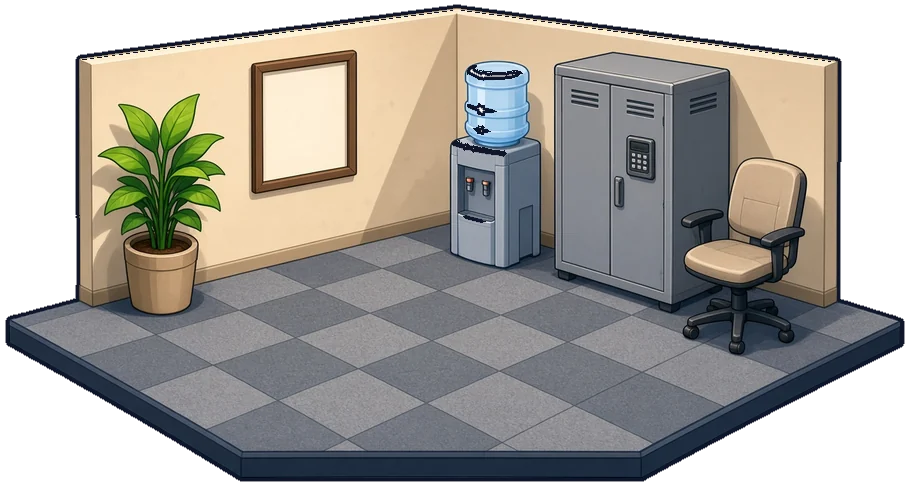
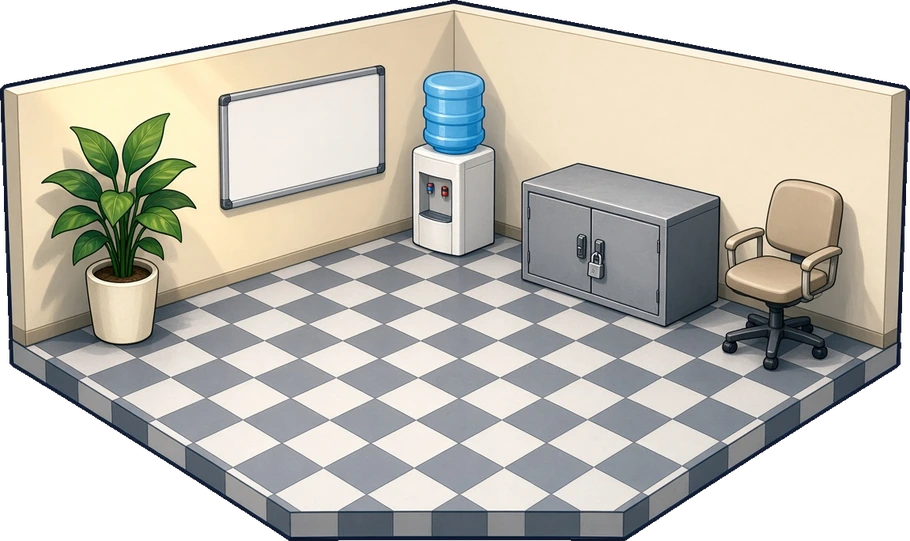
Everybody sits on something, the locker is now pickable, and the scale is fixed
Scale: a kneeling otter was taller than a standing wolf. Smudge now has a
height per pose (sitting, kneeling, standing) and the heroes are bigger, so the
crew read as people beside him rather than toys.

Sitting on air: the fishing pose is a side view that needs an edge under it.
The dock has one, so he moved onto its front edge clear of the post. The beach
and the ice hole do not, so a wooden crate (Grok job 185) is drawn under him
there. Any future place without an edge just goes in CRATE in js/stage.js.

The Supply Closet had him kneeling at a chest-height locker, which made no
sense. The room was redrawn (Grok job 186) with a low padlocked supply cabinet,
so the kneeling pose now reaches the lock and Brenda's joke survives.

Claude-Session: https://claude.ai/code/session_01MKsZvYnMVUP17zjeeAuUE4

diff --git a/js/stage.js b/js/stage.js
@@ -6,19 +6,23 @@
   // and a body's width apart. The third letter is the way that spot faces. w = picture width / height.
   // k (optional) scales everybody in a scene that is drawn closer up.
   const STAND = {
-    dock: { w: 1.99, s: [.47, .665], c: [[.33, .53, 'r'], [.6, .51, 'l'], [.74, .575, 'l']] },
-    bondi: { w: 1.99, s: [.43, .655], c: [[.23, .71, 'r'], [.33, .655, 'r'], [.61, .5, 'l']] },
-    fjord: { w: 2.12, s: [.6, .6], c: [[.15, .57, 'r'], [.43, .57, 'r'], [.88, .51, 'l']] },
+    dock: { w: 1.99, s: [.495, .64], c: [[.3, .52, 'r'], [.43, .485, 'r'], [.72, .55, 'l']] },
+    bondi: { w: 1.99, s: [.44, .615], c: [[.21, .7, 'r'], [.31, .645, 'r'], [.62, .5, 'l']] },
+    fjord: { w: 2.12, s: [.52, .545], c: [[.14, .565, 'r'], [.4, .565, 'r'], [.88, .51, 'l']] },
     speakeasy: { w: 2.01, s: [.62, .62], c: [[.22, .78, 'r'], [.36, .7, 'r'], [.8, .72, 'l']] },
     vault: { w: 1.91, s: [.58, .78], c: [[.2, .78, 'r'], [.31, .72, 'r'], [.42, .8, 'r']] },
-    closet: { w: 1.87, s: [.55, .75], c: [[.2, .75, 'r'], [.31, .69, 'r'], [.41, .8, 'r']] },
+    closet: { w: 1.68, s: [.58, .66], c: [[.16, .78, 'r'], [.29, .71, 'r'], [.42, .82, 'r']] },
     outback: { w: 2.05, s: [.46, .71], c: [[.1, .74, 'r'], [.21, .67, 'r'], [.32, .78, 'r']] },
     blackforest: { w: 1.95, s: [.5, .8], c: [[.22, .77, 'r'], [.35, .65, 'r'], [.9, .7, 'l']] } };
   // heroes whose picture looks to one side; everyone else looks out at you and is never mirrored
   const LOOKS = { albrecht: 'l', astrid: 'l', marco: 'r', emu: 'r' };
   // where Smudge's rod tip is in the fishing picture, so the line starts from the rod and not from thin air
   const ROD = { fish: [452, 62] };
-  const HERO = 0.357, SMUDGE = 0.41;      // how tall a hero and Smudge stand, as a share of the scene picture's height
+  // How tall everybody is, as a share of the scene picture's height. Smudge is sitting in some poses and standing in
+  // others, so each pose has its own number: an otter kneeling at a lock has to read as shorter than a standing wolf.
+  const HERO = 0.40, SMUDGE = { fish: 0.335, pick: 0.325, dig: 0.385, stamp: 0.355 };
+  // Scenes where there is no edge to sit on, so a crate is put under him
+  const CRATE = { bondi: 1, fjord: 1 };
 
   const Stage = {
     STAND, LOOKS,
@@ -26,9 +30,10 @@
     // cx = where its middle sits (0.5 = centred).
     rect(place, W, H, cx) { const sp = STAND[place] || STAND.dock, h = H * 1.12, w = h * sp.w; return { x: W * (cx == null ? .5 : cx) - w / 2, y: -H * .06, w, h }; },
     // Everybody's feet in host pixels, and their heights. r = the picture's box from rect().
-    layout(place, r) {
+    layout(place, r, pose) {
       const sp = STAND[place] || STAND.dock, k = sp.k || 1, at = q => [r.x + q[0] * r.w, r.y + q[1] * r.h];
-      return { smudge: { at: at(sp.s), h: SMUDGE * r.h * k }, crew: sp.c.map(q => ({ at: at(q), h: HERO * r.h * k, face: q[2] })) };
+      pose = pose || 'stamp';
+      return { pose, crate: !!CRATE[place], smudge: { at: at(sp.s), h: (SMUDGE[pose] || 0.355) * r.h * k }, crew: sp.c.map(q => ({ at: at(q), h: HERO * r.h * k, face: q[2] })) };
     },
     // the rod tip in host pixels for a pose placed at `at` and `h` tall
     rodTip(pose, at, h, rig) { const t = ROD[pose], e = rig[pose]; if (!t || !e) return null; const k = h / e.size[1];

diff --git a/js/game.js b/js/game.js
@@ -283,14 +283,15 @@
       const r = card.querySelector('.row'); r.append(btn('small', 'Move him', placeSheet), btn('small ghost', 'What drops here', () => lootSheet(p, modal.close)), btn('small ghost', 'Bring him home', () => { S.jobs = []; save(true); render(); }));
       box.appendChild(card);
       // everybody's spot and size come from the stage (js/stage.js), the same table the dashboard uses
-      const host = card.querySelector('.who'), H = host.clientHeight, lay = OS.Stage.layout(p.id, OS.Stage.rect(p.id, host.clientWidth, H));
+      const host = card.querySelector('.who'), H = host.clientHeight, pose = POSE[p.skill] || 'stamp', lay = OS.Stage.layout(p.id, OS.Stage.rect(p.id, host.clientWidth, H), pose);
       const rect = OS.Stage.rect(p.id, host.clientWidth, H); FX = new OS.SceneFX(host, p.id, rect);
       // back to front, so whoever stands lower in the picture is drawn in front
       const cast = crew().map((id, k) => ({ id, q: lay.crew[k] })).concat([{ q: lay.smudge }]).sort((a, c) => a.q.at[1] - c.q.at[1]);
       cast.forEach(m => { const [x, y] = m.q.at;
         if (m.id) { const pp = OS.heroPuppet(host, m.id, m.q.h); if (pp) { pp.flip = OS.Stage.flip(m.id, m.q.face); pp.place(x, y); jobPups.push(pp); pp.id = m.id; pp.tall = m.q.h; pp.wide = m.q.h * OS.rig['h_' + m.id].size[0] / OS.rig['h_' + m.id].size[1]; crewPups.push(pp); } }
-        else { const pose = POSE[p.skill] || 'stamp', se = OS.rig[pose], sm = new OS.Puppet(host, pose, m.q.h / se.size[1]); sm.place(x, y); sm.me = true; sm.tall = m.q.h; sm.wide = m.q.h; jobPups.push(sm); } });
+        else { const se = OS.rig[pose], sm = new OS.Puppet(host, pose, m.q.h / se.size[1]); sm.place(x, y); sm.me = true; sm.tall = m.q.h; sm.wide = m.q.h; jobPups.push(sm); } });
       if (p.skill === 'Fishing') FX.rod(OS.Stage.rodTip('fish', lay.smudge.at, lay.smudge.h, OS.rig));
+      if (lay.crate) FX.crate([lay.smudge.at[0] - lay.smudge.h * .08, lay.smudge.at[1] + lay.smudge.h * .03], lay.smudge.h * .55);
       jobPups.sort((a, c) => (c.me ? 1 : 0) - (a.me ? 1 : 0));
     }
     // ---- the crew

diff --git a/js/dashtest.js b/js/dashtest.js
@@ -1,7 +1,7 @@
 // Dashboard mockup: fake numbers, but the live bits are live — the rigs move, the bars fill,
 // the sparkline is drawn, and the haul timer runs. Nothing here touches a save.
 (function () {
-  const $ = id => document.getElementById(id), V = '?v=1126f';
+  const $ = id => document.getElementById(id), V = '?v=1126g';
 
   // ---- the desk: Smudge at work with a crew of three, on the scene he is working
   const scene = $('scene'), crew = $('crew');
@@ -12,7 +12,7 @@
     const w = crew.clientWidth, h = crew.clientHeight; if (!w || !rig) return;
     cast.forEach(m => m.p.destroy()); cast = [];
     // the scene picture sits whole on the right of the strip, and everybody stands where the stage says (js/stage.js)
-    const r = OS.Stage.rect(PLACE, w, h, w > 900 ? .68 : .5), lay = OS.Stage.layout(PLACE, r), bg = $('desk-bg');
+    const r = OS.Stage.rect(PLACE, w, h, w > 900 ? .68 : .5), lay = OS.Stage.layout(PLACE, r, POSE), bg = $('desk-bg');
     if (fx) fx.destroy(); fx = new OS.SceneFX(crew, PLACE, r);
     bg.style.cssText = `left:${r.x}px;top:${r.y}px;width:${r.w}px;height:${r.h}px`;
     const all = CREW.map((id, k) => ({ id, q: lay.crew[k] })).concat([{ q: lay.smudge }]).sort((a, b) => a.q.at[1] - b.q.at[1]);
@@ -22,6 +22,7 @@
       cast.push({ id: m.id, p, x: m.q.at[0], y: m.q.at[1], tall: m.q.h, wide: m.q.h * e.size[0] / e.size[1] });
     });
     fx.rod(OS.Stage.rodTip(POSE, lay.smudge.at, lay.smudge.h, rig));
+    if (lay.crate) fx.crate([lay.smudge.at[0] - lay.smudge.h * .08, lay.smudge.at[1] + lay.smudge.h * .03], lay.smudge.h * .55);
   }
   fetch('/data/rig.json' + V).then(r => r.json()).then(j => { rig = j; placeRigs(); });
   // the crew talk, one at a time, in a proper bubble

diff --git a/dashtest.html b/dashtest.html
@@ -4,8 +4,8 @@
 <meta charset="utf-8"><meta name="viewport" content="width=device-width,initial-scale=1">
 <title>Dashboard mockup · OverSummoned</title>
 <meta name="robots" content="noindex,nofollow">
-<link rel="stylesheet" href="/css/os.css?v=1126f">
-<link rel="stylesheet" href="/css/dash.css?v=1126f">
+<link rel="stylesheet" href="/css/os.css?v=1126g">
+<link rel="stylesheet" href="/css/dash.css?v=1126g">
 </head>
 <body class="dashbody">
 <header class="gbar"><div class="wrap">
@@ -15,7 +15,7 @@
     <span title="Ink"><img src="/assets/v2/loot/x_ink.webp" alt="Ink"><b id="r-ink">0</b></span>
     <span title="Gold"><img src="/assets/v2/loot/x_gold.webp" alt="Gold"><b id="r-gold">12,480</b></span>
     <button class="fbbtn" type="button">Ideas or feedback?</button>
-    <button class="avatar"><img src="/assets/v2/smudge/stamp.webp?v=1126f" alt=""></button>
+    <button class="avatar"><img src="/assets/v2/smudge/stamp.webp?v=1126g" alt=""></button>
   </div>
 </div></header>
 
@@ -122,9 +122,9 @@
 </main>
 
 <script src="/js/vendor/dragonBones.core.min.js"></script>
-<script src="/js/stage.js?v=1126f"></script>
-<script src="/js/scenefx.js?v=1126f"></script>
-<script src="/js/dbcanvas.js?v=1126f"></script>
-<script src="/js/dashtest.js?v=1126f"></script>
+<script src="/js/stage.js?v=1126g"></script>
+<script src="/js/scenefx.js?v=1126g"></script>
+<script src="/js/dbcanvas.js?v=1126g"></script>
+<script src="/js/dashtest.js?v=1126g"></script>
 </body>
 </html>

diff --git a/js/scenefx.js b/js/scenefx.js
@@ -33,6 +33,9 @@
     }
     // Where Smudge's rod tip is: told to us once he is placed, as [x, y] in host pixels.
     rod(xy) { this.tip = xy; }
+    // Scenes with no edge to sit on get a crate under him. top-centre at [x, y], h tall.
+    crate(xy, h) { this.crt = { x: xy[0], y: xy[1], h };
+      if (!SceneFX.img) { const i = SceneFX.img = new Image(); i.src = '/assets/v2/scenes/prop_crate.webp' + (OS.VER || ''); } }
     at(f) { const r = this.rect; return [r.x + f[0] * r.w, r.y + f[1] * r.h]; }
     // a haul: the bobber dips and a ring spreads
     splash() { if (!this.cfg.bob) return; this.rings.push({ a: 0 }); this.dip = 1; }
@@ -58,6 +61,9 @@
           g.beginPath(); g.ellipse(b[0], b[1], k.a * r.w * .07, k.a * r.h * .028, 0, 0, 7); g.stroke(); });
         g.restore();
       }
+      const ci = SceneFX.img;
+      if (this.crt && ci && ci.complete && ci.naturalWidth) { const k = this.crt.h / ci.naturalHeight, w2 = ci.naturalWidth * k;
+        g.drawImage(ci, this.crt.x - w2 / 2, this.crt.y, w2, this.crt.h); }
       if (c.lamp) c.lamp.forEach(([lx, ly, rad]) => { const [x, y] = this.at([lx, ly]), R = rad * r.h / 460 * 3.2, f = .55 + .45 * (0.5 + 0.5 * Math.sin(T * 2.3) * Math.sin(T * 1.1));
         const gr = g.createRadialGradient(x, y, 0, x, y, R); gr.addColorStop(0, `rgba(255,214,140,${.3 * f})`); gr.addColorStop(1, 'rgba(255,200,120,0)');
         g.fillStyle = gr; g.beginPath(); g.arc(x, y, R, 0, 7); g.fill(); });

diff --git a/maptest.html b/maptest.html
@@ -1,7 +1,7 @@
 <!doctype html><html lang="en"><head><meta charset="utf-8"><meta name="viewport" content="width=device-width,initial-scale=1">
 <title>Map test · OverSummoned</title><meta name="robots" content="noindex,nofollow"><link rel="stylesheet" href="/css/os.css?v=1126a"></head>
 <body><main class="wrap" style="padding:1.5rem 0"><h1 style="font-size:1.6rem">Map test (made-up visitors)</h1><div class="panel" style="margin-top:1rem"><div class="geomap" id="m"></div></div></main>
-<script src="/js/geomap.js?v=1126f"></script><script>
+<script src="/js/geomap.js?v=1126g"></script><script>
 const P=[['US','Melbourne',28.1,-80.6,14],['US','New York',40.7,-74,9],['US','Los Angeles',34.1,-118.2,6],['GB','London',51.5,-0.1,8],['DE','Berlin',52.5,13.4,4],['BR','Sao Paulo',-23.5,-46.6,3],['JP','Tokyo',35.7,139.7,5],['AU','Sydney',-33.9,151.2,4],['IN','Mumbai',19.1,72.9,2],['ZA','Cape Town',-33.9,18.4,1],['CA','Toronto',43.7,-79.4,3],['FR','Paris',48.9,2.4,2]];
 const places=P.map(p=>({country:p[0],city:p[1],lat:p[2],lon:p[3],visitors:p[4],views:p[4]*3}));
 GeoMap.mount(document.getElementById('m'),{places,recent:places.slice(0,8).map((p,i)=>({...p,path:['/','/heroes','/desktop-pet','/story'][i%4],at:new Date(Date.now()-i*420000).toISOString()}))});

diff --git a/play.html b/play.html
@@ -154,12 +154,12 @@
 <div class="toast" id="toast"></div>
 <script src="https://cdn.jsdelivr.net/npm/@supabase/supabase-js@2.45.0/dist/umd/supabase.min.js"></script>
 <script src="/js/cloud.js"></script>
-<script src="/js/os.js?v=1126f"></script>
-<script src="/js/stage.js?v=1126f"></script>
-<script src="/js/scenefx.js?v=1126f"></script>
+<script src="/js/os.js?v=1126g"></script>
+<script src="/js/stage.js?v=1126g"></script>
+<script src="/js/scenefx.js?v=1126g"></script>
 <script src="/js/vendor/dragonBones.core.min.js"></script>
-<script src="/js/dbcanvas.js?v=1126f"></script>
-<script src="/js/game.js?v=1126f"></script>
+<script src="/js/dbcanvas.js?v=1126g"></script>
+<script src="/js/game.js?v=1126g"></script>
 <script>if ('serviceWorker' in navigator) addEventListener('load', () => navigator.serviceWorker.register('/sw.js').catch(() => { }));</script>
 </body>
 </html>

diff --git a/admin.html b/admin.html
@@ -61,6 +61,6 @@
 </main>
 <div class="tip" id="ctip"></div><div class="toast" id="toast"></div>
 <script src="https://cdn.jsdelivr.net/npm/@supabase/supabase-js@2.45.0/dist/umd/supabase.min.js"></script>
-<script src="/js/cloud.js"></script><script src="/js/os.js"></script><script src="/js/geomap.js?v=1126f"></script><script src="/js/stage.js?v=1126f"></script><script src="/js/vendor/dragonBones.core.min.js"></script><script src="/js/dbcanvas.js?v=1126f"></script>
+<script src="/js/cloud.js"></script><script src="/js/os.js"></script><script src="/js/geomap.js?v=1126g"></script><script src="/js/stage.js?v=1126g"></script><script src="/js/vendor/dragonBones.core.min.js"></script><script src="/js/dbcanvas.js?v=1126g"></script>
 <script src="/js/admin.js"></script>
 </body></html>

diff --git a/sw.js b/sw.js
@@ -1,6 +1,6 @@
 // OverSummoned app shell. Pages and code come from the network first (so updates show at once) and
 // fall back to the last copy when offline; pictures with a version in their link are kept.
-const V = 'os-1126f';
+const V = 'os-1126g';
 self.addEventListener('install', e => { self.skipWaiting(); e.waitUntil(caches.open(V).then(c => c.addAll(['/offline', '/css/os.css', '/assets/fonts/LilitaOne.ttf', '/assets/fonts/Nunito.ttf']).catch(() => { }))); });
 self.addEventListener('activate', e => e.waitUntil((async () => { for (const k of await caches.keys()) if (k !== V) await caches.delete(k); await self.clients.claim(); })()));
 self.addEventListener('fetch', e => {

diff --git a/js/os.js b/js/os.js
@@ -3,7 +3,7 @@ window.OS = (function () {
   const A = '/assets/v2/';
   const OS = { R: null, rig: null, voice: null, items: {}, heroes: {} };
 
-  OS.VER = '?v=1126f';   // bump when art or data changes, so browsers drop their cached copies
+  OS.VER = '?v=1126g';   // bump when art or data changes, so browsers drop their cached copies
   OS.load = async function () {
     const [R, rig, voice] = await Promise.all(['rules', 'rig', 'voice'].map(n => fetch('/data/' + n + '.json' + OS.VER).then(r => r.json())));
     OS.R = R; OS.rig = rig; OS.voice = voice; OS.items = R.items;

diff --git a/PLAN.md b/PLAN.md
@@ -136,6 +136,7 @@ Status: [x] done, [~] partly done, [ ] not started.
 - [x] Crew chatter: each hero has five lines and two replies in their own voice (`rules/chatter.py` -> `data/chatter.json`, 182 lines, written by hand). One speaks every 11 to 21 seconds; sometimes one other answers. Never two at once. A crew member reacts when Smudge finds treasure
 - [ ] Grok voices: have Grok write a bigger set per hero ONCE, from the owner's office, and store it in the database for everyone. Never per player or per visit, so credits are spent once per hero. Needs database approval
 - [ ] RULE for every new hero: add their lines to `rules/chatter.py`
+- [ ] RULE for every new place: if there is no edge for Smudge to sit on, add it to `CRATE` in `js/stage.js`, and make sure the pose makes sense for what he is working on (kneeling needs the lock at knee height)
 - [ ] RULE for every new place: add anything that should move to `FX` in `js/scenefx.js` (water, a lamp, bubbles, smoke)
 - [ ] RULE for every new place: add its standing spots to `STAND` in `js/stage.js` (Smudge + three crew, each wholly on one surface), then check it with a wide crew
 - [ ] RULE for every new hero: if the mouth is drawn closed, add it to `MOUTH` in `rules/dbexport.py` so it opens when they talk
